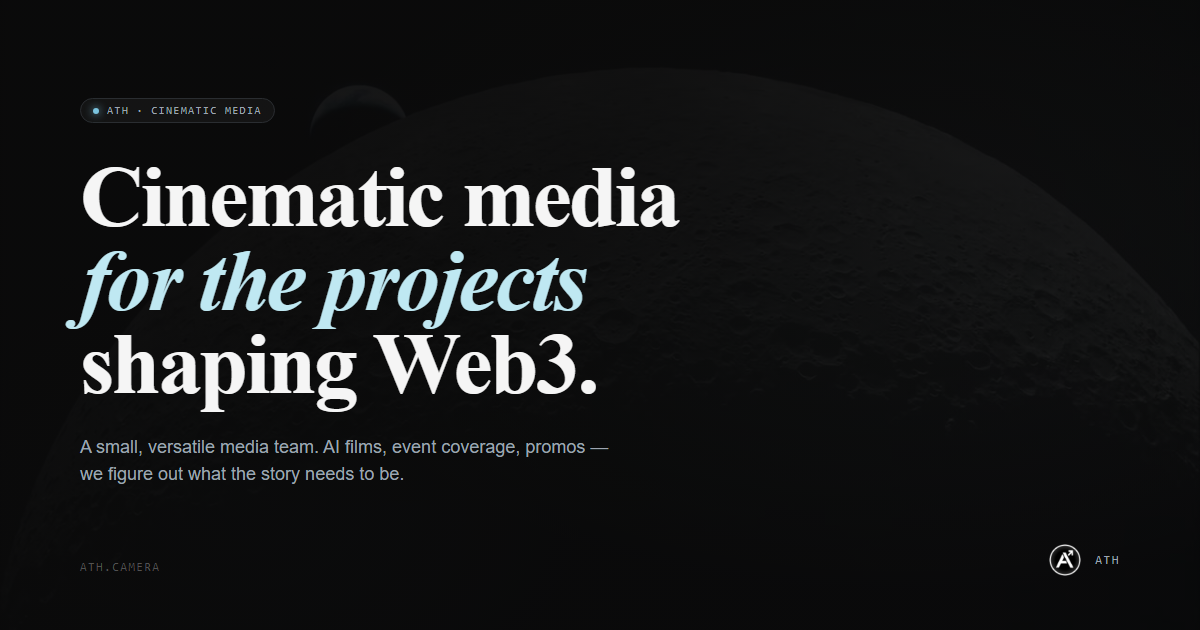
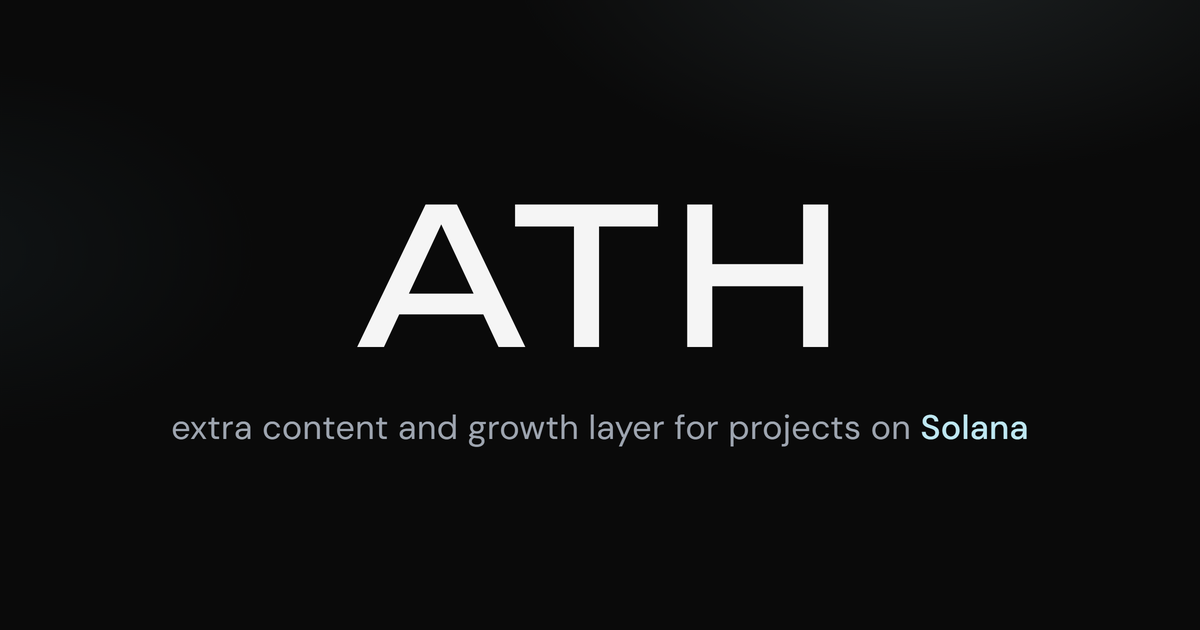
Simplify title to "ATH"; new minimal OG image
- Tab/og/twitter title: "ATH - Cinematic media" -> "ATH"
- OG image redrawn to match the site: ATH (Unbounded) + slogan on black

diff --git a/index.html b/index.html
@@ -3,13 +3,13 @@
 <head>
 <meta charset="utf-8" />
 <meta name="viewport" content="width=device-width, initial-scale=1.0, viewport-fit=cover" />
-<title>ATH - Cinematic media</title>
+<title>ATH</title>
 <link rel="icon" href="favicon.ico" type="image/x-icon" />
 <link rel="canonical" href="https://ath.camera" />
 <meta name="robots" content="index, follow" />
 <meta name="google-site-verification" content="vC552hNdFY_Tz6fxU_hffGBICVqzzgnL51Wm6FLjQC0" />
 <meta name="description" content="ATH is a duo — extra content and growth layer for projects on Solana. Content, community-driven campaigns, and anything that grabs attention." />
-<meta property="og:title" content="ATH - Cinematic media" />
+<meta property="og:title" content="ATH" />
 <meta property="og:description" content="ATH is a duo — extra content and growth layer for projects on Solana. Content, community-driven campaigns, and anything that grabs attention." />
 <meta property="og:image" content="https://ath.camera/og-image.png" />
 <meta property="og:url" content="https://ath.camera" />
@@ -17,7 +17,7 @@
 <meta property="og:site_name" content="ATH" />
 <meta name="twitter:card" content="summary_large_image" />
 <meta name="twitter:site" content="@athcamera" />
-<meta name="twitter:title" content="ATH - Cinematic media" />
+<meta name="twitter:title" content="ATH" />
 <meta name="twitter:description" content="ATH is a duo — extra content and growth layer for projects on Solana. Content, community-driven campaigns, and anything that grabs attention." />
 <meta name="twitter:image" content="https://ath.camera/og-image.png" />
 <script defer src="https://umami-service-production-3ded.up.railway.app/script.js" data-website-id="c6a909fb-aee0-4738-a319-eff57127ea98"></script>
